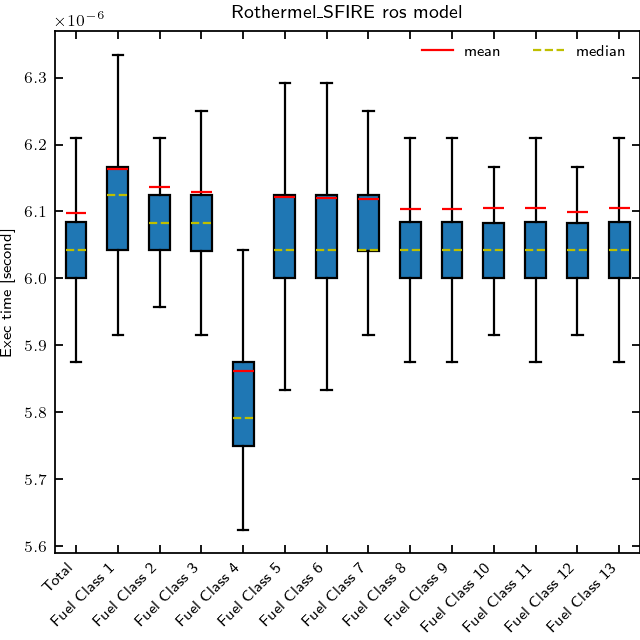
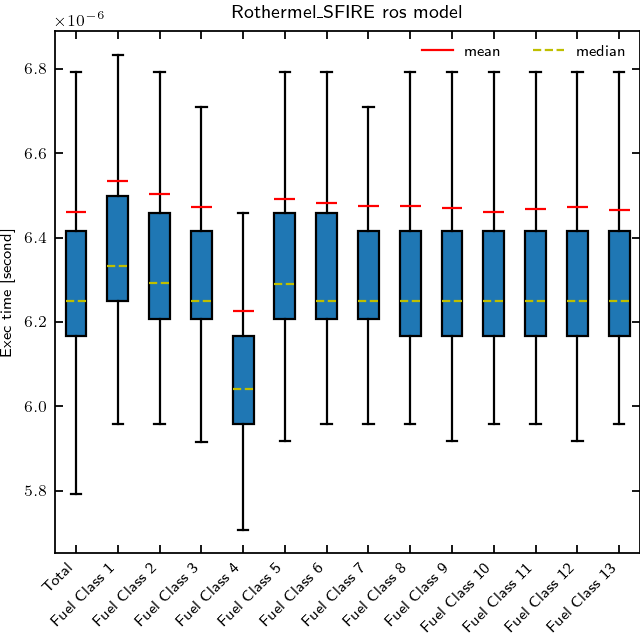
update efficiency benchmark after anderson fix

diff --git a/docs/worflows_0D_models/rate_of_spread_models/efficiency/Rothermel_anderson/report.md b/docs/worflows_0D_models/rate_of_spread_models/efficiency/Rothermel_anderson/report.md
@@ -11,10 +11,10 @@ nav_order: 2
 ## Workflow information
 
 - Documentation page:
-- Version: 1.0
+- Version: 1.1
 - Date of record creation: 2024-12-03
 - Date of upload to firebench: 2024-12-03
-- Version/tag/commit firebench: 0.3.1a0
+- Version/tag/commit firebench: 0.3.2a0
 
 ## Configuration
 
@@ -38,7 +38,7 @@ nav_order: 2
 <!-- Fill in with your results -->
 **Fig.1**  shows the execution time aggregated for all fuel classes (total) and for each fuel class.
 As fuel category 4 uses a different rate of spread calculation within the SFIRE implementation of Rothermel, a difference in performance is expected.
-Overall, the performance is very similar for each fuel category and a mean execution time of 6.098 $$\mu$$s over 106,496 samples.
+Overall, the performance is very similar for each fuel category and a mean execution time of 6.698 $$\mu$$s over 106,496 samples.
 
 <div style="text-align: center;">
     <img src="efficiency_box.png" alt="Exec time" style="width: 100%; max-width: 1200px;"/>
@@ -60,7 +60,7 @@ Overall, the performance is very similar for each fuel category and a mean execu
[9 lines of base64/hex data omitted]
 <!-- end of firebench-hash-list -->
